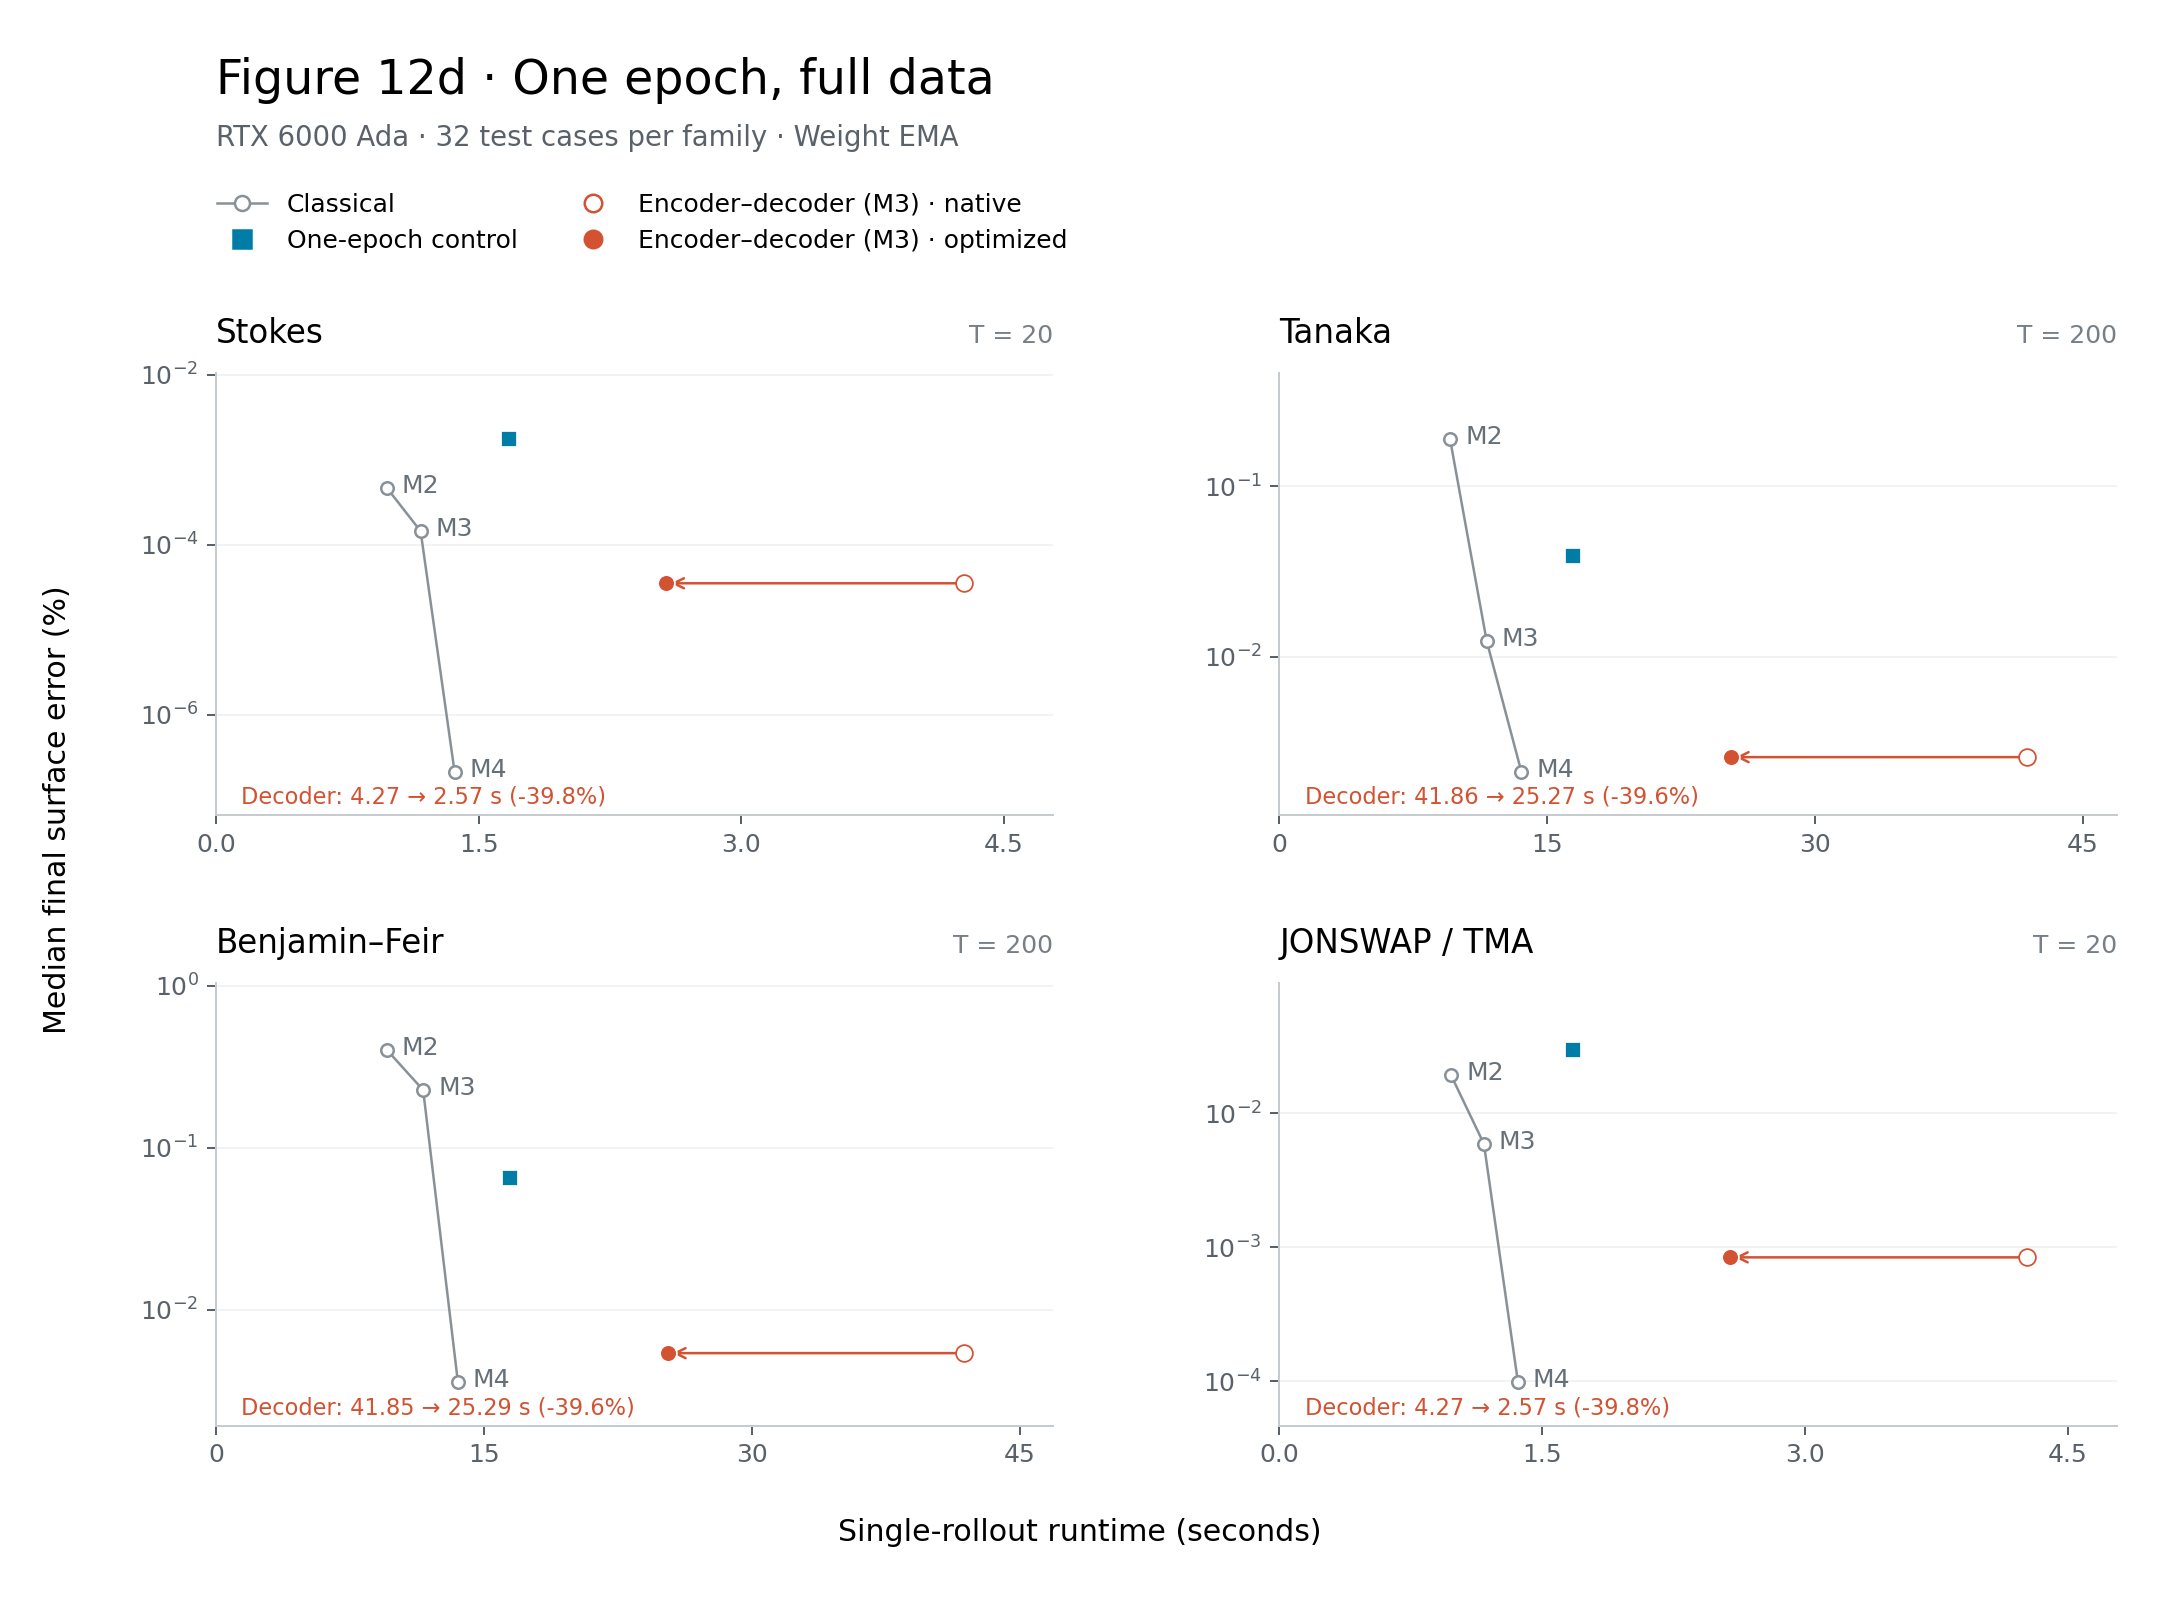
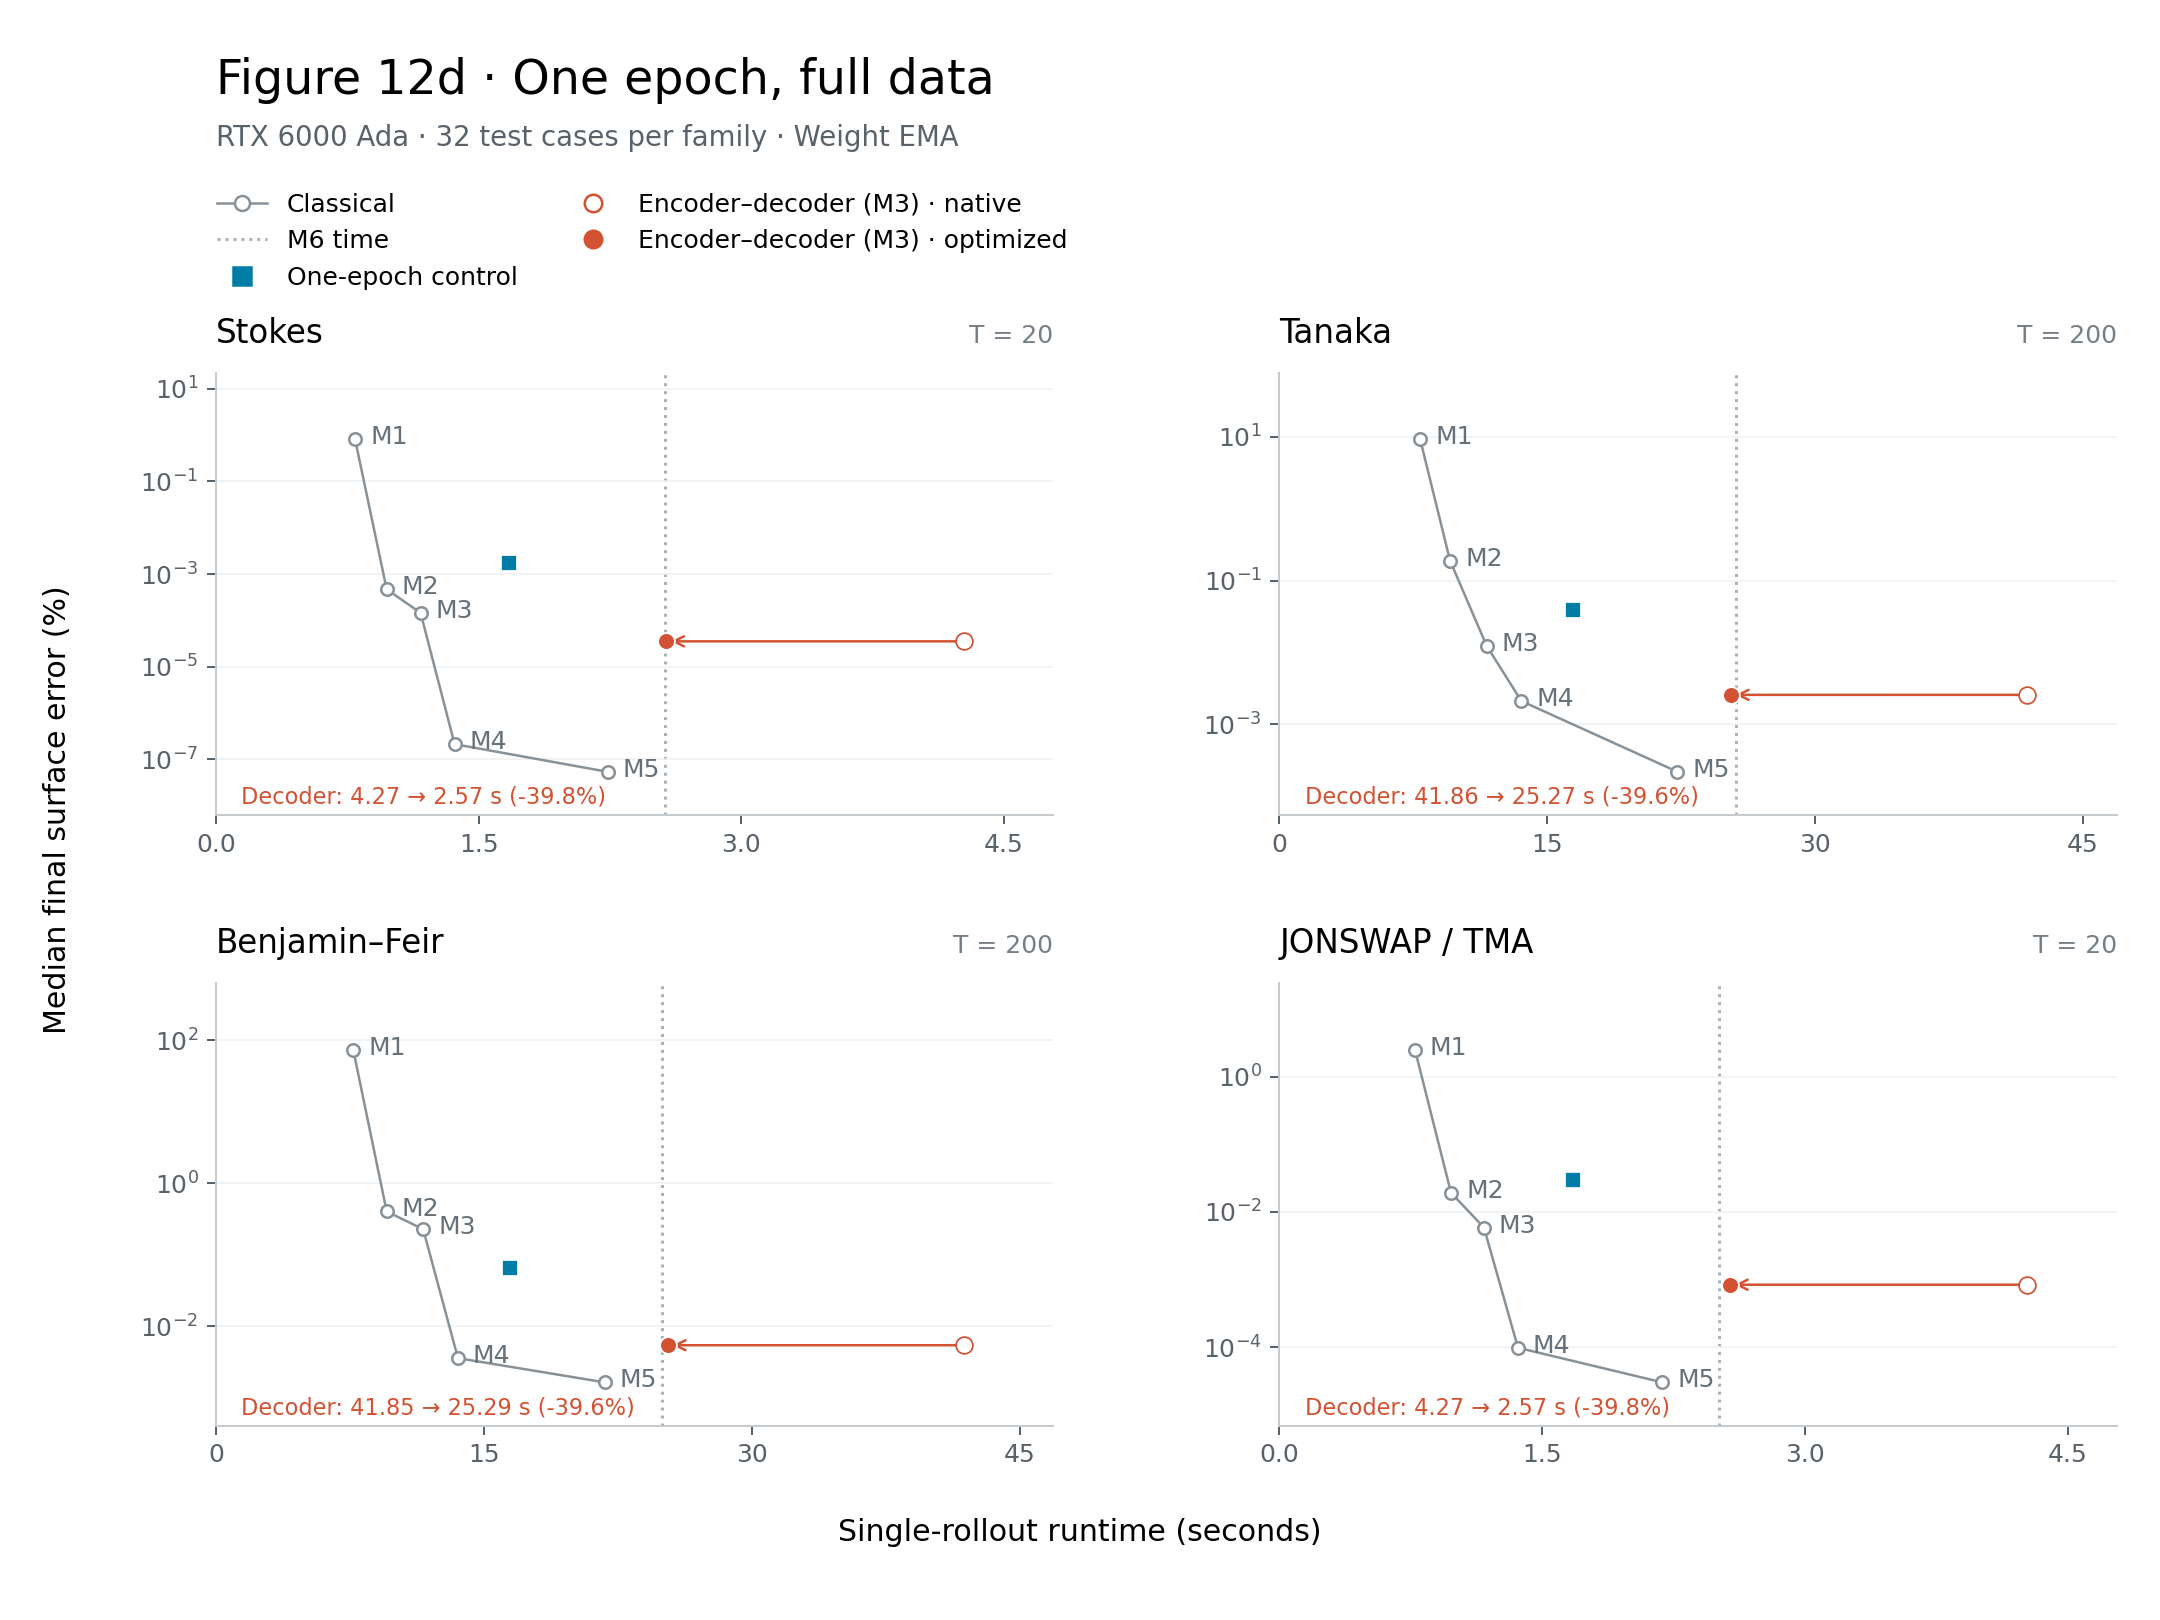
Restore M1 through M6 comparison in Figure 12d

diff --git a/paper-plots/plot_neural_advantage.py b/paper-plots/plot_neural_advantage.py
@@ -478,6 +478,19 @@ if __name__ == "__main__":
                     direct = measured["families"].get(family, {}).get("methods", {}).get(f"M{order}_boundaries_stages_carry_local")
                     if direct is not None:
                         classical_seconds[index] = float(np.median(direct["seconds"]))
+            if args.recent_one_epoch:
+                with np.load(ROOT / f"outputs/cs_order_sweep_20260923/{family}.npz") as sweep:
+                    extra_errors = {order: 100 * float(np.median(sweep["eta_rel_l2"][
+                        np.flatnonzero(sweep["orders"] == order).item(), -1,
+                    ])) for order in (1, 5)}
+                recorded = json.loads((ROOT / "outputs/classical_all_orders_20260928/ada/classical.json").read_text())
+                recorded_methods = recorded["families"][family]["methods"]
+                orders = (1, *orders, 5)
+                classical_errors = [extra_errors[1], *classical_errors, extra_errors[5]]
+                classical_seconds = [float(np.median(recorded_methods["M1"]["seconds"])),
+                                     *classical_seconds, float(np.median(recorded_methods["M5"]["seconds"]))]
+                ax.axvline(float(np.median(recorded_methods["M6"]["seconds"])),
+                           color="#aab2b9", ls=":", lw=1.2, zorder=1)
             ax.plot(classical_seconds, classical_errors, "o-", color="#899198", markerfacecolor="white", ms=5, lw=1)
             for order, x, y in zip(orders, classical_seconds, classical_errors, strict=True):
                 ax.annotate(f"M{order}", (x, y), xytext=(6, -2), textcoords="offset points", color="#667078", fontsize=10)
@@ -538,6 +551,7 @@ if __name__ == "__main__":
         if args.recent_one_epoch:
             fig.legend(handles=[
                 Line2D([], [], color="#899198", marker="o", mfc="white", lw=1, label="Classical"),
+                Line2D([], [], color="#aab2b9", ls=":", lw=1.2, label="M6 time"),
                 *[Line2D([], [], color=color, marker=marker, ls="none", ms=7,
                          mfc="white" if label.endswith("· native") else color,
                          label=label.replace("CS-field decoder", "Encoder–decoder (M3)"))

diff --git a/experiments/experiments-2026-10-19.md b/experiments/experiments-2026-10-19.md
@@ -22,3 +22,4 @@
 | 2026-10-19 | 03:32 | Full M4 cohort comparison with trained CS-field decoder | The decoder contains an M3 baseline and remains slower than M4; compare all128 cases against M4 before calling the better-than-M3 accuracy a useful runtime tradeoff. | outputs/momentum_classical_M4_none_20261019: M4 terminal eta medians% S.0000002123,T.00211283,BF.00355362,J.0000978218; decoder .00003519/.00257556/.00538423/.00083790. Decoder/M4 paired eta GM ratios47.3016/1.35759/1.58816/10.59683; pooled5.73362,wins29/128. M4 p95% .00186/.0743/.0231/.00741 versus decoder .00196/.0287/.0132/.0211: decoder improves Tanaka/BF upper tails. Added M4 to Figure12b using this cohort and existing clean single-rollout times1.3625/13.5475/13.5429/1.3614s. | IDs/depths/times and complete truth eta/xi/q arrays match the decoder; all128 predictions finite and positive depth. FP64 interleaved cuFFTDx pad1, no projection modifications, same cached M6 references. No neural restore or training for this classical run. | GPU0 evaluation completed03:19; CPU audit about00:01. Reused existing batch1 full-rollout timings, not batch32 evaluation time; no additional timing repeat or cloud allocation. | M4 wins every family median and runtime. Do not promote M3 decoder as an efficiency win. Pursue the user-prioritized M1 decoder to reduce analytic-field cost without raising baseline order. |
 | 2026-10-19 | 03:32 | Prioritized M1 encoder-decoder: fresh full-data epoch launched | User requested the same G0+G1 analytic order as the hero and bumped this ahead of half-width M3. Test whether the cheaper two-field decoder can retain useful learned accuracy. | Generalized decoder/native/optimized inference and CPU prefetch to order1 or3. M1 uses two CS fields, lifts z*tanh(z) and z, and a learned O(eta^2) residual. Launched c27_cs_terms_m1_scratch1_20261019 on GPU0 at03:30; width320,29704 parameters,seed0,B16,LR8e-5,one-epoch cosine, full TRAIN11796720/VAL1474440. Same data/MB/TG/momentum/HD and detached full-loss rollout supervision as M3; gradEMA.5 and weightEMA.995/startfraction.8. Launcher automatically evaluates primary EMA on128 cases through optimized terms_interleaved_features_cufftdx. | CPU M1/M3 model, loss, prefetch, HD/input gradients and both EMA checks pass. Five loader/evaluator/classical tests pass25.771s. GPU active-head native/optimized relative difference1.74845e-14; head shape160x2. Ruff, shell syntax and diff checks pass. Actual trainer PID1543165/config confirm order1,nested0,full fractions,epochs1,null initialization; observed live updates with finite reported losses. | Implementation/checks03:23–03:30; training started03:30 and remains active. Prior M3 epoch/export took01:50; M1 completion not yet measured. GPU1/Sam/cloud untouched. | RUNNING FIRST. Half-width M3 is shelved and was not launched. Fresh initialization, no resume, no raw-weight rollout, no extra epoch. Accuracy and clean trained-model latency pending. |
 | 2026-10-19 | 03:39 | Figure12d: recent full-data one-epoch runtime/error comparison | User requests a new, readable one-epoch comparison separate from historical Figure12b. | Added --recent-one-epoch to the existing plotter; generated 12d-one-epoch-full-data PNG/PDF. Four Ada panels show Oct12 seed0 control with its plain-path EMA accuracy/timings, M3 decoder native and optimized paths each with their own EMA accuracy/timings, and classical M2/M3/M4. Y is32-case median terminal eta error in percent; X is measured warm batch1 full-trajectory seconds. Native-to-optimized decoder arrows show about40% savings. | All neural entries are full-data epoch1 primary-EMA results. Independent read-only source check confirms the same ordered IDs/depths/reference protocol across all six cohorts and no failures. M3 cohort accuracy is archived pad2 with current pad1 timing; all four fresh timed cases reproduce archived terminal errors within5.73e-10 relative, consistent with earlier retained-band equivalence audits. M2/M4 pairs match directly. Ruff/Pyright/diff checks pass; rendered layout inspected after fixing legend overlap. | CPU-only rendering under00:01; no training, GPU timing or cloud allocation. Existing M1 training remains live. | SAVED separately; Figures12/12b/12c unchanged. Untimed phase/nested screens and unfinished M1 are excluded, not placed at proxy runtimes. Await M1 EMA rollouts and measured latency before adding it. |
+| 2026-10-19 | 03:43 | Figure12d: restore classical M1/M5 and M6 runtime | User correctly requests the omitted ends of the classical order comparison, not only M2–M4. | Restored M1/M5 cohort median errors from cs_order_sweep_20260923 and recorded Ada single-rollout times from classical_all_orders_20260928/ada/classical.json; M6 appears as its runtime line because its reference error is zero. Existing M2–M4 values and all neural points unchanged. | Independent CPU audit confirms exact IDs/depths/times for all4 families, finite/successful32 per order, and agreement of archived M2–M4 medians with newer evaluations to6.35e-11 absolute relative error. M1 uses saved pad1 timing; M5/M6 are saved pad2 measurements, NOT newly retimed pad1 results. No newer full M5/M6 pad1 timing exists. Render inspected; Ruff/diff checks pass. | CPU render under00:01; no GPU job or training interruption. | FIXED figure omissions. M5/M6 still require current-path timing before claiming uniformly optimized all-order runtime comparisons. |

diff --git a/EXPERIMENTS.md b/EXPERIMENTS.md
@@ -33,11 +33,11 @@ could not be recovered at all are in
 
 ## Dated logs
 
-101 files, 1706 rows.
+101 files, 1707 rows.
 
 | Date | Rows | File | Size |
 | --- | --- | --- | --- |
-| 2026-10-19 | 20 | [`experiments/experiments-2026-10-19.md`](experiments/experiments-2026-10-19.md) | 35 KB |
+| 2026-10-19 | 21 | [`experiments/experiments-2026-10-19.md`](experiments/experiments-2026-10-19.md) | 36 KB |
 | 2026-10-18 | 48 | [`experiments/experiments-2026-10-18.md`](experiments/experiments-2026-10-18.md) | 72 KB |
 | 2026-10-17 | 11 | [`experiments/experiments-2026-10-17.md`](experiments/experiments-2026-10-17.md) | 24 KB |
 | 2026-10-16 | 12 | [`experiments/experiments-2026-10-16.md`](experiments/experiments-2026-10-16.md) | 23 KB |
